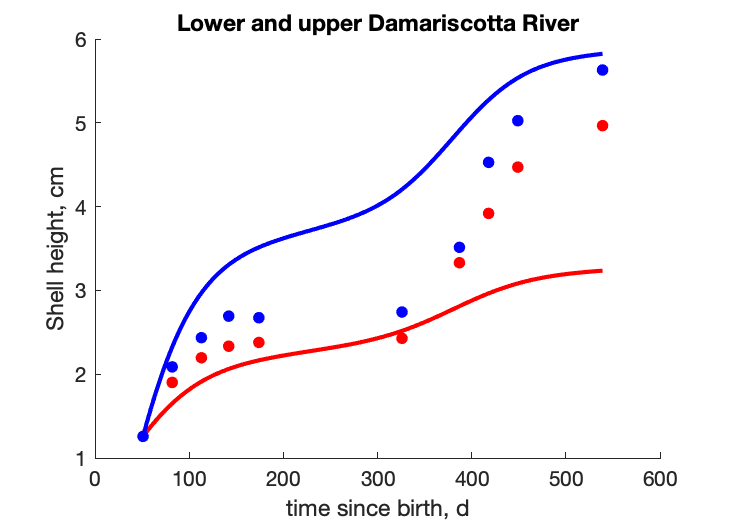
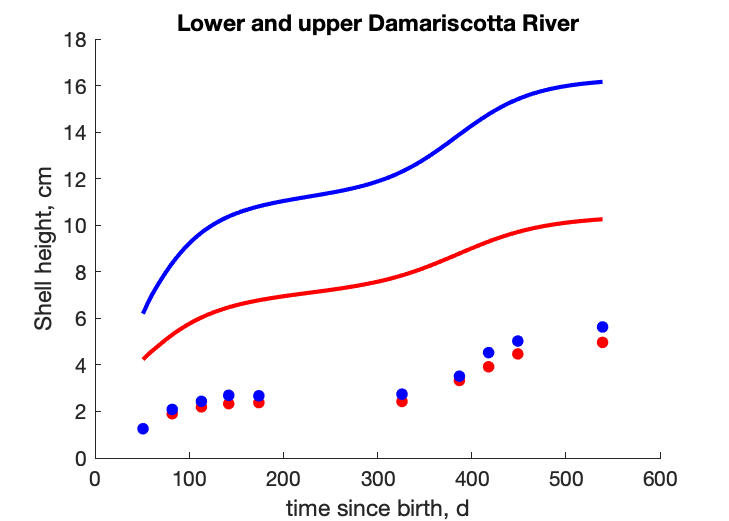
Added Starrlights's suggestions

diff --git a/Argopecten_irradians/Argopecten_irradians_res.html b/Argopecten_irradians/Argopecten_irradians_res.html
@@ -44,7 +44,7 @@
   </div>
 
   <div class="par">
-  <h4>COMPLETE = 2.5; MRE =    1.119; SMSE =    0.480 </h4>
+  <h4>COMPLETE = 2.5; MRE = 1901.112; SMSE =    0.762 </h4>
   </div>
 
   <p class="clear"></p>
@@ -53,29 +53,29 @@
   <h2>Data & predictions</h2>
   <TABLE id="prd">
     <TR  class="head"><TH>data</TH> <TH>prd</TH> <TH>RE</TH>  <TH>symbol</TH> <TH>units</TH> <TH>description</TH> </TR>
-    <TR><TD>  1</TD> <TD>0.7297</TD> <TD>0.2703</TD> <TD>ab</TD> <TD>d</TD> <TD>age at birth</TD></TR>
-    <TR><TD>12.2</TD> <TD>3.822</TD> <TD>0.6867</TD> <TD>aj</TD> <TD>d</TD> <TD>age at metamorphosis</TD></TR>
-    <TR><TD>365</TD> <TD>323.5</TD> <TD>0.1137</TD> <TD>ap</TD> <TD>d</TD> <TD>age at puberty</TD></TR>
-    <TR><TD>790</TD> <TD>2599</TD> <TD>2.29</TD> <TD>am</TD> <TD>d</TD> <TD>life span</TD></TR>
-    <TR><TD>0.0081</TD> <TD>0.03079</TD> <TD>2.801</TD> <TD>Lb</TD> <TD>cm</TD> <TD>shell length at birth</TD></TR>
-    <TR><TD>0.018</TD> <TD>0.1656</TD> <TD>8.2</TD> <TD>Lj</TD> <TD>cm</TD> <TD>shell length at metamorphosis</TD></TR>
-    <TR><TD>5.5</TD> <TD>6.024</TD> <TD>0.09527</TD> <TD>Lp</TD> <TD>cm</TD> <TD>shell length at puberty</TD></TR>
-    <TR><TD>  9</TD> <TD>10.56</TD> <TD>0.1732</TD> <TD>Li</TD> <TD>cm</TD> <TD>ultimate shell length</TD></TR>
-    <TR><TD>8.39e-07</TD> <TD>6.709e-08</TD> <TD>0.92</TD> <TD>Wdb</TD> <TD>g</TD> <TD>dry tissue weight at birth</TD></TR>
-    <TR><TD>4.86e-06</TD> <TD>1.044e-05</TD> <TD>1.148</TD> <TD>Wdj</TD> <TD>g</TD> <TD>dry tissue weight at metamorphosis</TD></TR>
-    <TR><TD>1.6</TD> <TD>0.757</TD> <TD>0.5269</TD> <TD>Wdp</TD> <TD>g</TD> <TD>dry tissue weight at puberty</TD></TR>
-    <TR><TD>5.3</TD> <TD>4.077</TD> <TD>0.2308</TD> <TD>Wdi</TD> <TD>g</TD> <TD>ultimate dry tissue weight</TD></TR>
-    <TR><TD>2094</TD> <TD>2119</TD> <TD>0.01215</TD> <TD>Ri</TD> <TD>#/d</TD> <TD>maximum reprod rate</TD></TR>
-    <TR><TD colspan="2">see figure</TD> <TD>0.1954</TD> <TD>tL1</TD> <TD colspan="2">time since birth, <font color="blue"><i>vs.</i></font> Shell height</TD>
-    <TR><TD colspan="2">see figure</TD> <TD>0.2005</TD> <TD>tL2</TD> <TD colspan="2">time since birth, <font color="blue"><i>vs.</i></font> Shell height</TD>
-    <TR><TD colspan="2">see figure</TD> <TD>0.839</TD> <TD>tL3</TD> <TD colspan="2">time since birth, <font color="blue"><i>vs.</i></font> Shell height</TD>
-    <TR><TD colspan="2">see figure</TD> <TD>0.3145</TD> <TD>TJO</TD> <TD colspan="2">temperature, <font color="blue"><i>vs.</i></font> O_2 consumption rate</TD>
-    <TR class="psd"><TD>0.02</TD> <TD>0.02833</TD> <TD>0.4166</TD> <TD>psd.v</TD> <TD>cm/d</TD> <TD>energy conductance</TD></TR>
-    <TR class="psd"><TD>0.8</TD> <TD>0.9973</TD> <TD>0.2467</TD> <TD>psd.kap</TD> <TD>-</TD> <TD>allocation fraction to soma</TD></TR>
+    <TR><TD>  1</TD> <TD>0.1167</TD> <TD>0.8833</TD> <TD>ab</TD> <TD>d</TD> <TD>age at birth</TD></TR>
+    <TR><TD>12.2</TD> <TD>0.5906</TD> <TD>0.9516</TD> <TD>aj</TD> <TD>d</TD> <TD>age at metamorphosis</TD></TR>
+    <TR><TD>365</TD> <TD>45.27</TD> <TD>0.876</TD> <TD>ap</TD> <TD>d</TD> <TD>age at puberty</TD></TR>
+    <TR><TD>790</TD> <TD>2680</TD> <TD>2.393</TD> <TD>am</TD> <TD>d</TD> <TD>life span</TD></TR>
+    <TR><TD>0.0081</TD> <TD>0.006428</TD> <TD>0.2064</TD> <TD>Lb</TD> <TD>cm</TD> <TD>shell length at birth</TD></TR>
+    <TR><TD>0.018</TD> <TD>0.03478</TD> <TD>0.9322</TD> <TD>Lj</TD> <TD>cm</TD> <TD>shell length at metamorphosis</TD></TR>
+    <TR><TD>5.5</TD> <TD>2.868</TD> <TD>0.4786</TD> <TD>Lp</TD> <TD>cm</TD> <TD>shell length at puberty</TD></TR>
+    <TR><TD>  9</TD> <TD>31.11</TD> <TD>2.457</TD> <TD>Li</TD> <TD>cm</TD> <TD>ultimate shell length</TD></TR>
+    <TR><TD>8.39e-07</TD> <TD>7.73e-10</TD> <TD>0.9991</TD> <TD>Wdb</TD> <TD>g</TD> <TD>dry tissue weight at birth</TD></TR>
+    <TR><TD>4.86e-06</TD> <TD>1.225e-07</TD> <TD>0.9748</TD> <TD>Wdj</TD> <TD>g</TD> <TD>dry tissue weight at metamorphosis</TD></TR>
+    <TR><TD>1.6</TD> <TD>0.0185</TD> <TD>0.9884</TD> <TD>Wdp</TD> <TD>g</TD> <TD>dry tissue weight at puberty</TD></TR>
+    <TR><TD>5.3</TD> <TD>23.62</TD> <TD>3.456</TD> <TD>Wdi</TD> <TD>g</TD> <TD>ultimate dry tissue weight</TD></TR>
+    <TR><TD>2094</TD> <TD>6.763e+07</TD> <TD>3.229e+04</TD> <TD>Ri</TD> <TD>#/d</TD> <TD>maximum reprod rate</TD></TR>
+    <TR><TD colspan="2">see figure</TD> <TD>1.56</TD> <TD>tL1</TD> <TD colspan="2">time since birth, <font color="blue"><i>vs.</i></font> Shell height</TD>
+    <TR><TD colspan="2">see figure</TD> <TD>2.62</TD> <TD>tL2</TD> <TD colspan="2">time since birth, <font color="blue"><i>vs.</i></font> Shell height</TD>
+    <TR><TD colspan="2">see figure</TD> <TD>4.977</TD> <TD>tL3</TD> <TD colspan="2">time since birth, <font color="blue"><i>vs.</i></font> Shell height</TD>
+    <TR><TD colspan="2">see figure</TD> <TD>0.2597</TD> <TD>TJO</TD> <TD colspan="2">temperature, <font color="blue"><i>vs.</i></font> O_2 consumption rate</TD>
+    <TR class="psd"><TD>0.02</TD> <TD>0.03876</TD> <TD>0.938</TD> <TD>psd.v</TD> <TD>cm/d</TD> <TD>energy conductance</TD></TR>
+    <TR class="psd"><TD>0.8</TD> <TD>0.8</TD> <TD>  0</TD> <TD>psd.kap</TD> <TD>-</TD> <TD>allocation fraction to soma</TD></TR>
     <TR class="psd"><TD>0.95</TD> <TD>0.95</TD> <TD>  0</TD> <TD>psd.kap_R</TD> <TD>-</TD> <TD>reproduction efficiency</TD></TR>
-    <TR class="psd"><TD> 18</TD> <TD>65.36</TD> <TD>2.631</TD> <TD>psd.p_M</TD> <TD>J/d.cm^3</TD> <TD>vol-spec som maint</TD></TR>
+    <TR class="psd"><TD> 18</TD> <TD>51.68</TD> <TD>1.871</TD> <TD>psd.p_M</TD> <TD>J/d.cm^3</TD> <TD>vol-spec som maint</TD></TR>
     <TR class="psd"><TD>0.002</TD> <TD>0.002</TD> <TD>  0</TD> <TD>psd.k_J</TD> <TD>1/d</TD> <TD>maturity maint rate coefficient</TD></TR>
-    <TR class="psd"><TD>0.8</TD> <TD>0.7506</TD> <TD>0.06175</TD> <TD>psd.kap_G</TD> <TD>-</TD> <TD>growth efficiency</TD></TR>
+    <TR class="psd"><TD>0.8</TD> <TD>0.7931</TD> <TD>0.008611</TD> <TD>psd.kap_G</TD> <TD>-</TD> <TD>growth efficiency</TD></TR>
   </TABLE>
   </div>
 
@@ -84,32 +84,32 @@
   <TABLE id="par">
     <TR class="head"><TH>symbol</TH> <TH>units</TH> <TH>value</TH>  <TH>free</TH> <TH>description</TH> </TR>
     <TR><TD>T_ref</TD> <TD>K</TD> <TD>293.1</TD> <TD>0</TD> <TD>Reference temperature</TD></TR>
-    <TR><TD>z</TD> <TD>-</TD> <TD>0.5632</TD> <TD>1</TD> <TD>zoom factor</TD></TR>
+    <TR><TD>z</TD> <TD>-</TD> <TD>0.9754</TD> <TD>1</TD> <TD>zoom factor</TD></TR>
     <TR><TD>F_m</TD> <TD>l/d.cm^2</TD> <TD>6.5</TD> <TD>0</TD> <TD>{F_m}, max spec searching rate</TD></TR>
     <TR><TD>kap_X</TD> <TD>-</TD> <TD>0.8</TD> <TD>0</TD> <TD>digestion efficiency of food to reserve</TD></TR>
     <TR><TD>kap_P</TD> <TD>-</TD> <TD>0.1</TD> <TD>0</TD> <TD>faecation efficiency of food to faeces</TD></TR>
-    <TR><TD>v</TD> <TD>cm/d</TD> <TD>0.02833</TD> <TD>1</TD> <TD>energy conductance</TD></TR>
-    <TR><TD>kap</TD> <TD>-</TD> <TD>0.9973</TD> <TD>1</TD> <TD>allocation fraction to soma</TD></TR>
+    <TR><TD>v</TD> <TD>cm/d</TD> <TD>0.03876</TD> <TD>1</TD> <TD>energy conductance</TD></TR>
+    <TR><TD>kap</TD> <TD>-</TD> <TD>0.8</TD> <TD>1</TD> <TD>allocation fraction to soma</TD></TR>
     <TR><TD>kap_R</TD> <TD>-</TD> <TD>0.95</TD> <TD>0</TD> <TD>reproduction efficiency</TD></TR>
-    <TR><TD>p_M</TD> <TD>J/d.cm^3</TD> <TD>65.36</TD> <TD>1</TD> <TD>[p_M], vol-spec somatic maint</TD></TR>
+    <TR><TD>p_M</TD> <TD>J/d.cm^3</TD> <TD>51.68</TD> <TD>1</TD> <TD>[p_M], vol-spec somatic maint</TD></TR>
     <TR><TD>p_T</TD> <TD>J/d.cm^2</TD> <TD>  0</TD> <TD>0</TD> <TD>{p_T}, surf-spec somatic maint</TD></TR>
     <TR><TD>k_J</TD> <TD>1/d</TD> <TD>0.002</TD> <TD>0</TD> <TD>maturity maint rate coefficient</TD></TR>
-    <TR><TD>E_G</TD> <TD>J/cm^3</TD> <TD>2508</TD> <TD>1</TD> <TD>[E_G], spec cost for structure</TD></TR>
-    <TR><TD>E_Hb</TD> <TD>J</TD> <TD>3.104e-06</TD> <TD>1</TD> <TD>maturity at birth</TD></TR>
-    <TR><TD>E_Hj</TD> <TD>J</TD> <TD>0.0004881</TD> <TD>1</TD> <TD>maturity at metam</TD></TR>
-    <TR><TD>E_Hp</TD> <TD>J</TD> <TD>71.51</TD> <TD>1</TD> <TD>maturity at puberty</TD></TR>
-    <TR><TD>h_a</TD> <TD>1/d^2</TD> <TD>4.8e-08</TD> <TD>1</TD> <TD>Weibull aging acceleration</TD></TR>
+    <TR><TD>E_G</TD> <TD>J/cm^3</TD> <TD>2374</TD> <TD>1</TD> <TD>[E_G], spec cost for structure</TD></TR>
+    <TR><TD>E_Hb</TD> <TD>J</TD> <TD>2.859e-06</TD> <TD>1</TD> <TD>maturity at birth</TD></TR>
+    <TR><TD>E_Hj</TD> <TD>J</TD> <TD>0.0004535</TD> <TD>1</TD> <TD>maturity at metam</TD></TR>
+    <TR><TD>E_Hp</TD> <TD>J</TD> <TD>75.57</TD> <TD>1</TD> <TD>maturity at puberty</TD></TR>
+    <TR><TD>h_a</TD> <TD>1/d^2</TD> <TD>5.544e-08</TD> <TD>1</TD> <TD>Weibull aging acceleration</TD></TR>
     <TR><TD>s_G</TD> <TD>-</TD> <TD>0.0001</TD> <TD>0</TD> <TD>Gompertz stress coefficient</TD></TR>
     <TR><TD>T_A</TD> <TD>K</TD> <TD>8000</TD> <TD>0</TD> <TD>Arrhenius temperature</TD></TR>
-    <TR><TD>del_M</TD> <TD>-</TD> <TD>0.2869</TD> <TD>1</TD> <TD>shape coefficient</TD></TR>
+    <TR><TD>del_M</TD> <TD>-</TD> <TD>0.1696</TD> <TD>1</TD> <TD>shape coefficient</TD></TR>
     <TR><TD>Wd0</TD> <TD>g</TD> <TD>  1</TD> <TD>0</TD> <TD>dry weight for TJO data</TD></TR>
     <TR><TD>Lw_0</TD> <TD>cm</TD> <TD>1.258</TD> <TD>0</TD> <TD>initial shell height for tL1 and tL2 data</TD></TR>
     <TR><TD>f</TD> <TD>-</TD> <TD>  1</TD> <TD>0</TD> <TD>scaled functional response for 0-var data</TD></TR>
-    <TR><TD>del_Mb</TD> <TD>-</TD> <TD>0.2503</TD> <TD>1</TD> <TD>shape coefficient before metamorphosis</TD></TR>
-    <TR><TD>f_tL1</TD> <TD>-</TD> <TD>0.3539</TD> <TD>1</TD> <TD>scaled functional response for upper river DRE</TD></TR>
-    <TR><TD>f_tL2</TD> <TD>-</TD> <TD>0.627</TD> <TD>1</TD> <TD>scaled functional response for lower river DRE</TD></TR>
-    <TR><TD>f_tL3</TD> <TD>-</TD> <TD>0.5003</TD> <TD>1</TD> <TD>scaled functional response for Tampa Bay</TD></TR>
-    <TR><TD>f_TJO</TD> <TD>-</TD> <TD>0.6885</TD> <TD>1</TD> <TD>scaled functional response for TJO</TD></TR>
+    <TR><TD>del_Mb</TD> <TD>-</TD> <TD>0.2626</TD> <TD>1</TD> <TD>shape coefficient before metamorphosis</TD></TR>
+    <TR><TD>f_tL1</TD> <TD>-</TD> <TD>0.4</TD> <TD>1</TD> <TD>scaled functional response for upper river DRE</TD></TR>
+    <TR><TD>f_tL2</TD> <TD>-</TD> <TD>0.6</TD> <TD>1</TD> <TD>scaled functional response for lower river DRE</TD></TR>
+    <TR><TD>f_tL3</TD> <TD>-</TD> <TD>0.6</TD> <TD>1</TD> <TD>scaled functional response for Tampa Bay</TD></TR>
+    <TR><TD>f_TJO</TD> <TD>-</TD> <TD>0.6</TD> <TD>1</TD> <TD>scaled functional response for TJO</TD></TR>
   </TABLE>
   </div>
 

diff --git a/Argopecten_irradians/predict_Argopecten_irradians.m b/Argopecten_irradians/predict_Argopecten_irradians.m
@@ -121,18 +121,20 @@ prdData.Ri  = RT_i;
 %   ELw1 = L/ del_M; 
   
   [t_j, t_p, t_b, l_j, l_p, l_b, l_i, rho_j, rho_B] = get_tj(pars_tj, f_tL1);
-  r_B = rho_B * k_M; L_i = l_i * L_m;
-  [t L] = ode45(@get_L1, tL1(:,1), Lw_0*del_M, [], r_B, L_i, T_ref, T_A); 
-  ELw1 = L/ del_M;
+  r_B = rho_B * k_M; L_i = l_i * L_m; L_b = l_b * L_m; 
+  t_start = tL1(1,1);
+  [t, L] = ode45(@get_L1, [0; tL1(:,1)], L_b, [], r_B, L_i, T_ref, T_A, t_start); 
+  ELw1 = L(2:end)/ del_M;
   
 % time-length for the upper damariscotta River (tL2)
 %   [t, L] = ode45(@get_L2, tL2(:,1), L_b, [], L_j, L_i, r_j, r_B, T_ref, T_A);
 %   ELw2 = L/ del_M; 
   
   [t_j, t_p, t_b, l_j, l_p, l_b, l_i, rho_j, rho_B] = get_tj(pars_tj, f_tL2);
-  r_B = rho_B * k_M; L_i = l_i * L_m;
-  [t L] = ode45(@get_L2, tL2(:,1), Lw_0*del_M, [], r_B, L_i, T_ref, T_A); 
-  ELw2 = L/ del_M;
+  r_B = rho_B * k_M; L_i = l_i * L_m; L_b = l_b * L_m;
+  t_start = tL2(1,1);
+  [t, L] = ode45(@get_L2, [0; tL2(:,1)], L_b, [], r_B, L_i, T_ref, T_A, t_start); 
+  ELw2 = L(2:end)/ del_M;
 
  
   % Time vs. shell length in Tampa Bay
@@ -189,12 +191,20 @@ prdData.Ri  = RT_i;
   
 end
 
-function dL = get_L1(t, L, r_B, L_i, T_ref, T_A)
-  TC = tempcorr(C2K(10+8*sin(2*pi*(t+50)/365)), T_ref, T_A);
-  dL = TC * r_B * (L_i -L);
+function dL = get_L1(t, L, r_B, L_i, T_ref, T_A, t_start)
+  if t < t_start
+      TC = tempcorr(C2K(24), T_ref, T_A);
+  else
+      TC = tempcorr(C2K(10+8*sin(2*pi*(t+50)/365)), T_ref, T_A);
+  end
+  dL = TC * r_B * (L_i - L);
 end
 
-function dL = get_L2(t, L, r_B, L_i, T_ref, T_A)
+function dL = get_L2(t, L, r_B, L_i, T_ref, T_A, t_start)
+  if t < t_start
+      TC = tempcorr(C2K(24), T_ref, T_A);
+  else
   TC = tempcorr(C2K(12+10*sin(2*pi*(t+50)/365)), T_ref, T_A);
-  dL = TC * r_B * (L_i -L);
+  end
+  dL = TC * r_B * (L_i - L);
 end

diff --git a/Argopecten_irradians/run_Argopecten_irradians.m b/Argopecten_irradians/run_Argopecten_irradians.m
@@ -8,10 +8,10 @@ estim_options('default');
 estim_options('max_step_number', 5e2);
 estim_options('max_fun_evals', 5e3);
 
-estim_options('pars_init_method', 1); 
+estim_options('pars_init_method', 2); 
 % 2 reads from pars_init file
 % 1 reads from estimation output
 estim_options('results_output', 3); 
-estim_options('method', 'nm'); 
+estim_options('method', 'no'); 
 
 estim_pars; 
